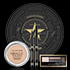
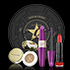
更新图片与字体图片

diff --git a/misi/index.html b/misi/index.html
@@ -352,7 +352,7 @@
             <div class="page4_lb">
                 <ul class="small-slider">
                     <li class="slide">
-                        <img src="images/lb_img1.png" class="img100">
+                        <img src="images/v5/lb_img1.png" class="img100">
                     </li>
                     <li class="slide">
                         <img src="images/v5/lb_img2.png" class="img100">
@@ -374,7 +374,7 @@
                 </div>
                 <div class="page4_lbtd">
                     <div class="page4_lbtdz select nav-select" id="op1">
-                        <img src="images/td1.jpg">
+                        <img src="images/v5/td1.jpg">
                     </div>
                     <div class="page4_lbtdz" id="op2" style="border: 1px solid #313131">
                         <img src="images/v5/td2.jpg">
@@ -386,15 +386,15 @@
                         <img src="images/v5/td4.jpg">
                     </div>
                 </div>
-                <div class="page4_lbtxt" style="height: 92px;">
-                    <img src="images/tm1.png">
+                <div class="page4_lbtxt" style="height: 110px;">
+                    <img src="images/v5/tm1.png">
                     <img src="images/v5/tm2.png" style="display: none;">
                     <img src="images/v5/tm3.png" style="display: none;">
                     <img src="images/v5/tm4.png" style="display: none;">
                 </div>
             </div>
             <a style="margin: 28px auto; display: block; text-align: center;" class="statistics" id="btn">
-                <img src="images/a.now.png" onclick="_hmt.push(['_trackEvent','点击购买','购买','天猫经典'])" style="width: 42%;"
+                <img src="images/a.png" onclick="_hmt.push(['_trackEvent','点击购买','购买','天猫经典'])" style="width: 42%;"
                      >
             </a>
             <!-- 1005增加淘口令 -->
@@ -615,13 +615,15 @@
         // 按钮跳转
         $("#btn").click(function () {
             var i = bxslider.getCurrentSlide();
-            console.log(i);
-            if (unlockproduct.indexOf(i) > -1) {
+//            if (unlockproduct.indexOf(i) > -1) {
+            if(i == 3){
                 // 显示淘口令
                 $(".page4-tklma").hide();
                 $(".page4-tkl,.page4-tkl-pop").show()
-            } else {
-                location.href = "shop.html"
+            } else if(i == 0) {
+                location.href = "shop.html?about=1"
+            }else{
+                location.href = "shop.html?about=2"
             }
         })
         // 设置淘口令
@@ -652,16 +654,16 @@
                 var html = '';
                 switch (newIndex) {
                     case 0:
-                        html = `<img src="images/a.now.png" onclick="_hmt.push(['_trackEvent','点击购买','购买','天猫经典'])" style="width: 42%;">`;
-                        break;
-                    case 1:
                         html = `<img src="images/a.png" onclick="_hmt.push(['_trackEvent','点击购买','购买','性感女神'])" style="width: 42%;" >`;
                         break;
-                    case 2:
+                    case 1:
                         html = `<img src="images/a.png" onclick="_hmt.push(['_trackEvent','点击购买','购买','高冷艳后'])" style="width: 42%;">`;
                         break;
-                    case 3:
+                    case 2:
                         html = `<img src="images/a.png" onclick="_hmt.push(['_trackEvent','点击购买','购买','永恒公主'])" style="width: 42%;" >`;
+                        break;
+                    case 3:
+                        html = `<img src="images/a.now.png" onclick="_hmt.push(['_trackEvent','点击购买','购买','天猫经典'])" style="width: 42%;">`;
                         break;
                 }
                 $('.statistics').html(html);

diff --git a/misi/shop.html b/misi/shop.html
@@ -129,7 +129,7 @@
             <!-- <div class="bg"></div> -->
             <div class="items">
                 <img src="images/shop/pic.png" class="ad-pic">
-                <img src="images/shop/txt.png?v=1005" class="ad-des">
+                <img src="images/v5/dream.png" class="ad-des">
             </div>
         </div>
         <!-- 宽度512px -->
@@ -175,7 +175,19 @@
 <script src="js/jweixin-1.1.0.js"></script>
 <script src="js/weixin.js?v=10073"></script>
 <script type="text/javascript">
-var scale = window.innerWidth/640
+    function GetQueryString(name){
+        var reg = new RegExp("(^|&)"+ name +"=([^&]*)(&|$)");
+        var r = window.location.search.substr(1).match(reg);
+        if(r!=null)return  unescape(r[2]); return null;
+    }
+    //改变图片字体
+    var _url = GetQueryString('about');
+    if(_url == 1){
+        $('.ad-des').attr('src','images/v5/dream.png')
+    }else{
+        $('.ad-des').attr('src','images/v5/else.png')
+    }
+var scale = window.innerWidth/640;
 var provinces = []
 var cities = []
 var shops = []

diff --git a/misi/css/index.css b/misi/css/index.css
@@ -181,7 +181,7 @@ body{ overflow: hidden; }
 .page4_lbtd>div:last-child{ margin-right: 0; }
 .page4_lbtxt{ width: 100%; margin-top: 44px; text-align: center; height: 185px; overflow: hidden; }
 /*.page4_lbtxt img{ width: 40%; }*/
-.page4_lbtxt img:nth-child(1){ margin-left: 86px; }
+.page4_lbtxt img:nth-child(4){ margin-left: 86px; }
 .loding_box,.tklma{ position: absolute; top: 0; left: 0; width: 100%; height: 100%; z-index: 999; background: black; display: none; }
 .loding_bar{ position: absolute; top: 50%; margin-top: -130px; left: 50%; margin-left: -150px; width: 100%; text-align: center; width: 300px; height: 233px; overflow: hidden; }
 .tklmap{ text-align: center; padding-top: 40%; }
